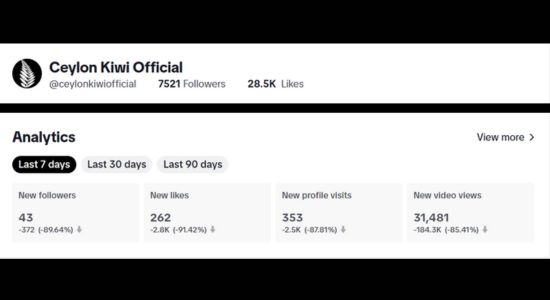
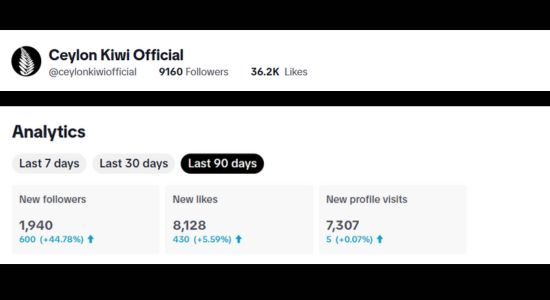
Update social media metrics for October 2025 and fix dates

diff --git a/index.html b/index.html
@@ -779,8 +779,8 @@
                 </div>
                 <div class="metric-content">
                     <h3 style="margin-bottom: 1rem;">Facebook Page</h3>
-                    <div class="metric-value" data-target="1102">0</div>
-                    <div class="metric-label">From July 2024 - July 2025</div>
+                    <div class="metric-value" data-target="1200">0</div>
+                    <div class="metric-label">From July 2024 - Oct 2025</div>
                     <div class="growth-indicator">↗ Followers Growth</div>
                 </div>
             </div>
@@ -791,8 +791,8 @@
                 </div>
                 <div class="metric-content">
                     <h3 style="margin-bottom: 1rem;">Facebook Group</h3>
-                    <div class="metric-value" data-target="85">0</div>
-                    <div class="metric-label">From May 2024</div>
+                    <div class="metric-value" data-target="116">0</div>
+                    <div class="metric-label">From May 2025</div>
                     <div class="growth-indicator">↗ Members Growth</div>
                 </div>
             </div>
@@ -803,8 +803,8 @@
                 </div>
                 <div class="metric-content">
                     <h3 style="margin-bottom: 1rem;">TikTok</h3>
-                    <div class="metric-value" data-target="7521">0</div>
-                    <div class="metric-label">From July 2024 - July 2025</div>
+                    <div class="metric-value" data-target="9163">0</div>
+                    <div class="metric-label">From July 2024 - Oct 2025</div>
                     <div class="growth-indicator">↗ Followers Growth</div>
                 </div>
             </div>
@@ -815,7 +815,7 @@
                 </div>
                 <div class="metric-content">
                     <h3 style="margin-bottom: 1rem;">X (Twitter)</h3>
-                    <div class="metric-value" data-target="3">0</div>
+                    <div class="metric-value" data-target="4">0</div>
                     <div class="metric-label">Still figuring out</div>
                     <div class="growth-indicator">↗ Followers Growth </div>
                 </div>
